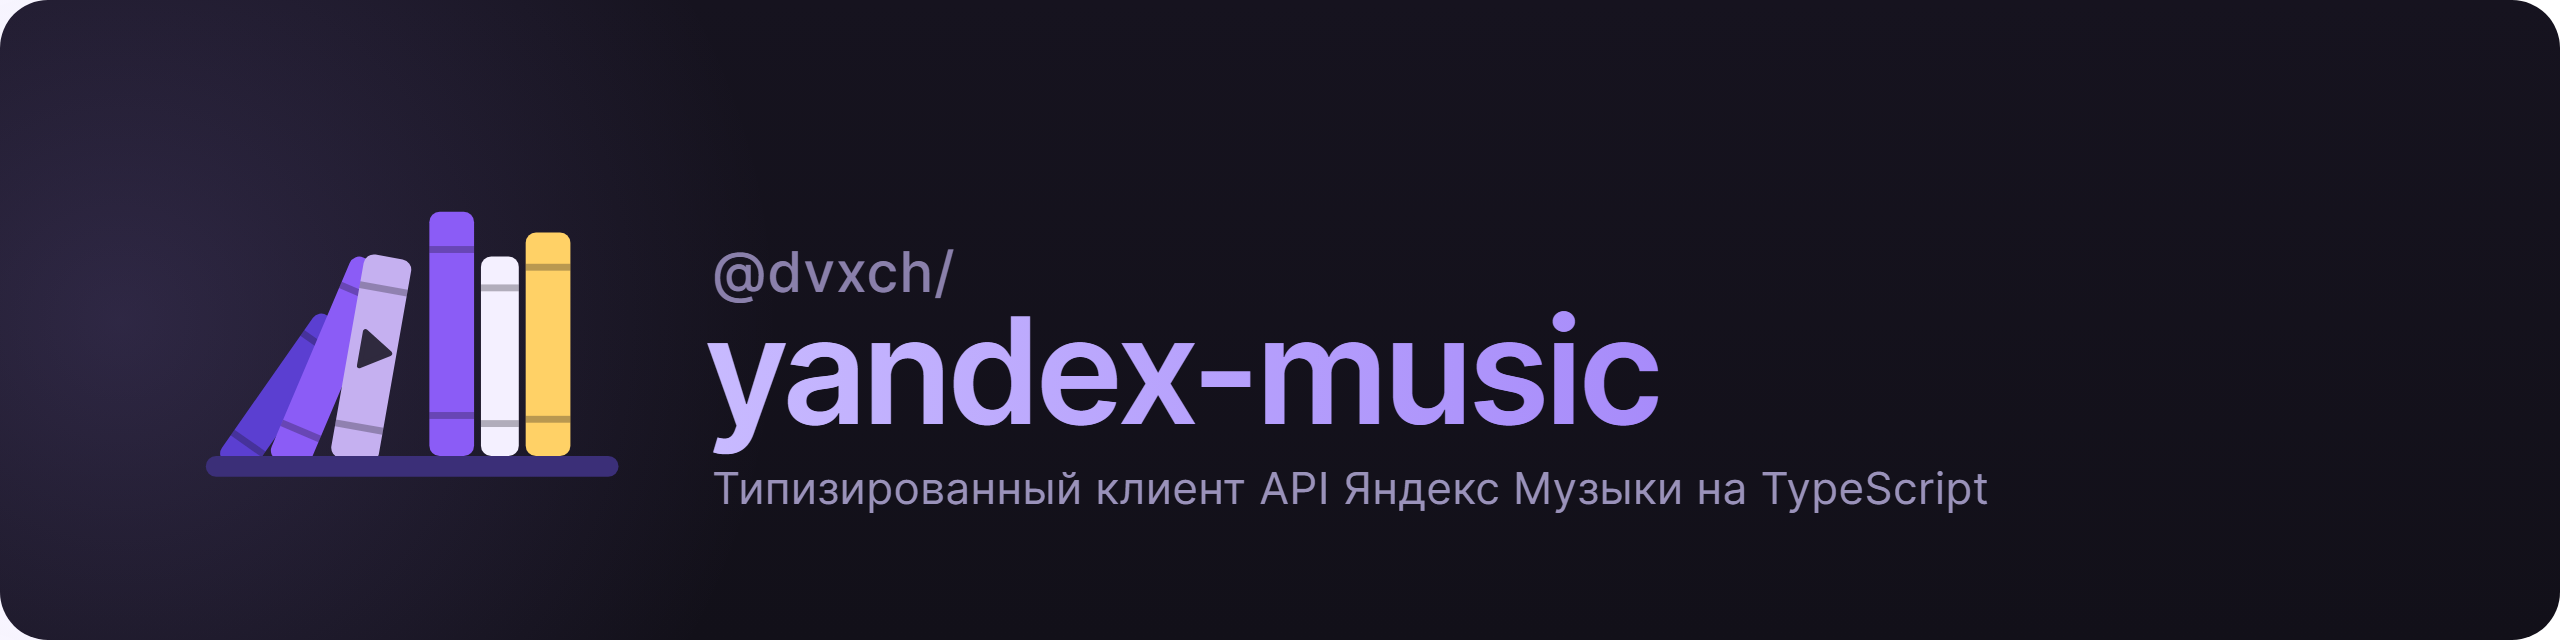
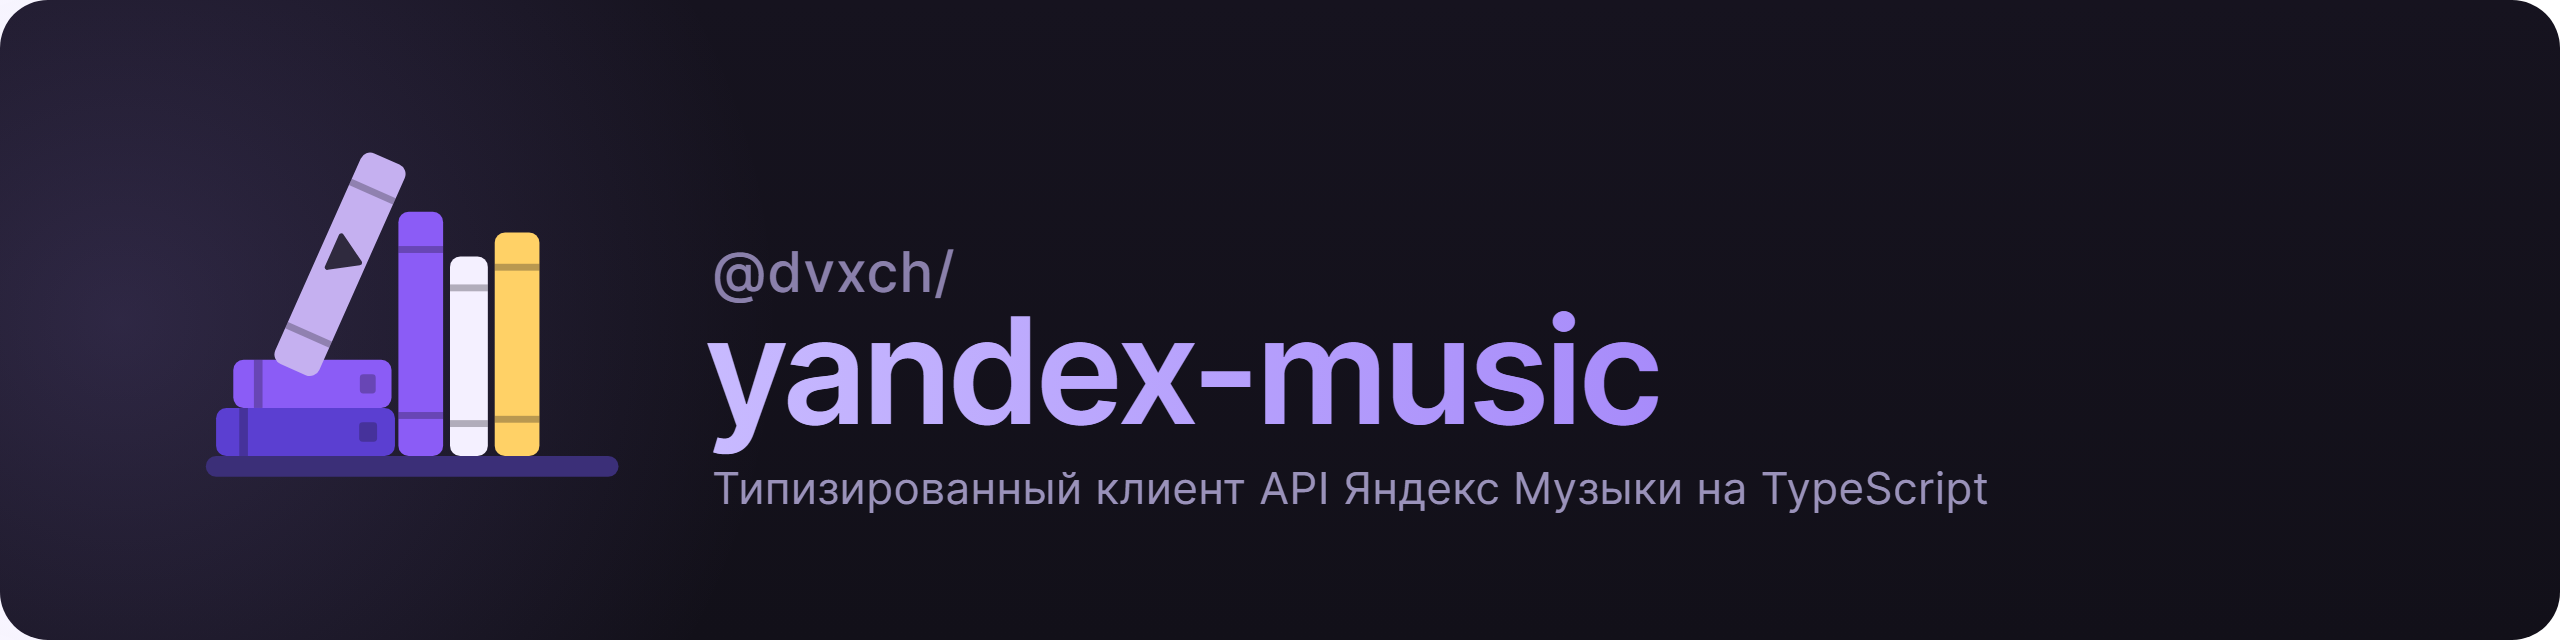
docs: логотип — две лежащие книги, наклонная с play опирается на три вертикальные
Вариант 2 из набора вариаций (лежащие слева).

Changed region(s): [[0.0625, 0.25, 0.25, 0.7188]]

diff --git a/CHANGELOG.md b/CHANGELOG.md
@@ -5,7 +5,7 @@ follows [Keep a Changelog](https://keepachangelog.com/en/1.1.0/).
 
 ## Unreleased
 
-- Новый логотип: книги на полке («библиотека») — три стоят вертикально, три разного размера опираются на них под углом, на одной значок play — вместо прежнего знака dvxch. Обновлены `assets/hero.svg`/`hero.png`, `favicon.svg`, `mark.svg`; добавлены одноцветные `mark-mono-dark.svg` и `mark-mono-light.svg`. Знак нарисован с нуля.
+- Новый логотип: книги на полке («библиотека») — две лежат, наклонная книга с play опирается на три вертикальные — вместо прежнего знака dvxch. Обновлены `assets/hero.svg`/`hero.png`, `favicon.svg`, `mark.svg`; добавлены одноцветные `mark-mono-dark.svg` и `mark-mono-light.svg`. Знак нарисован с нуля.
 
 ## 0.4.1 - 2026-11-27
 
